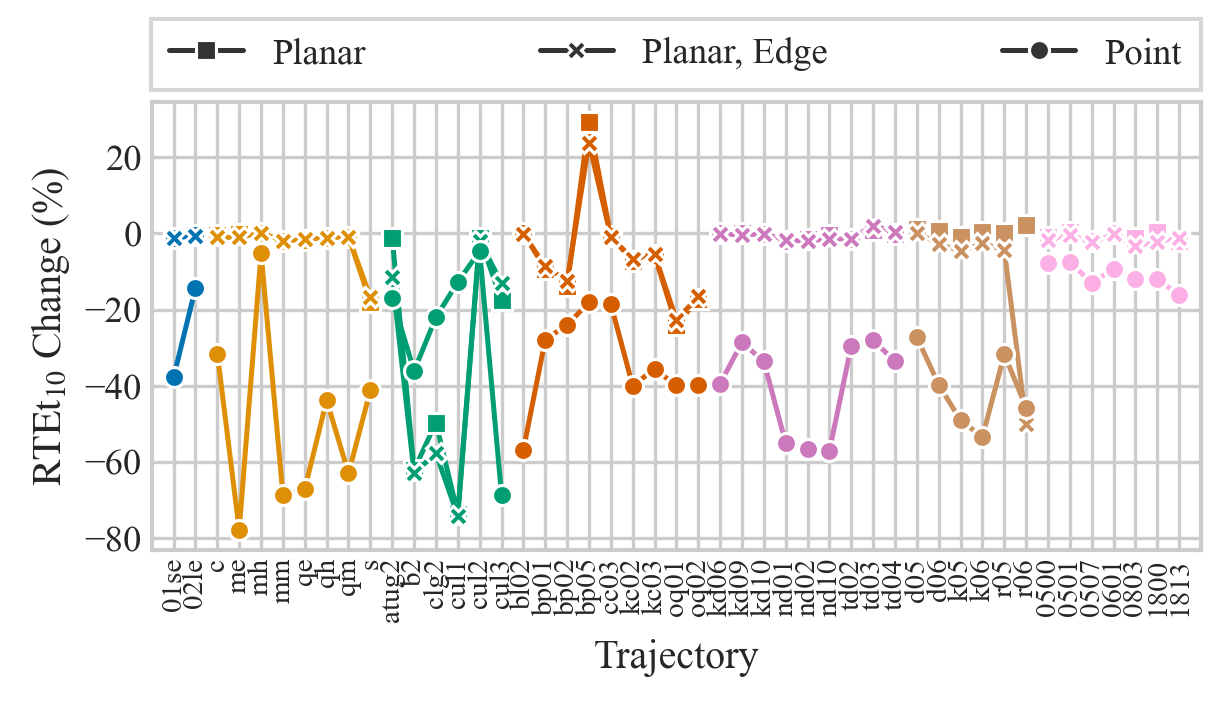
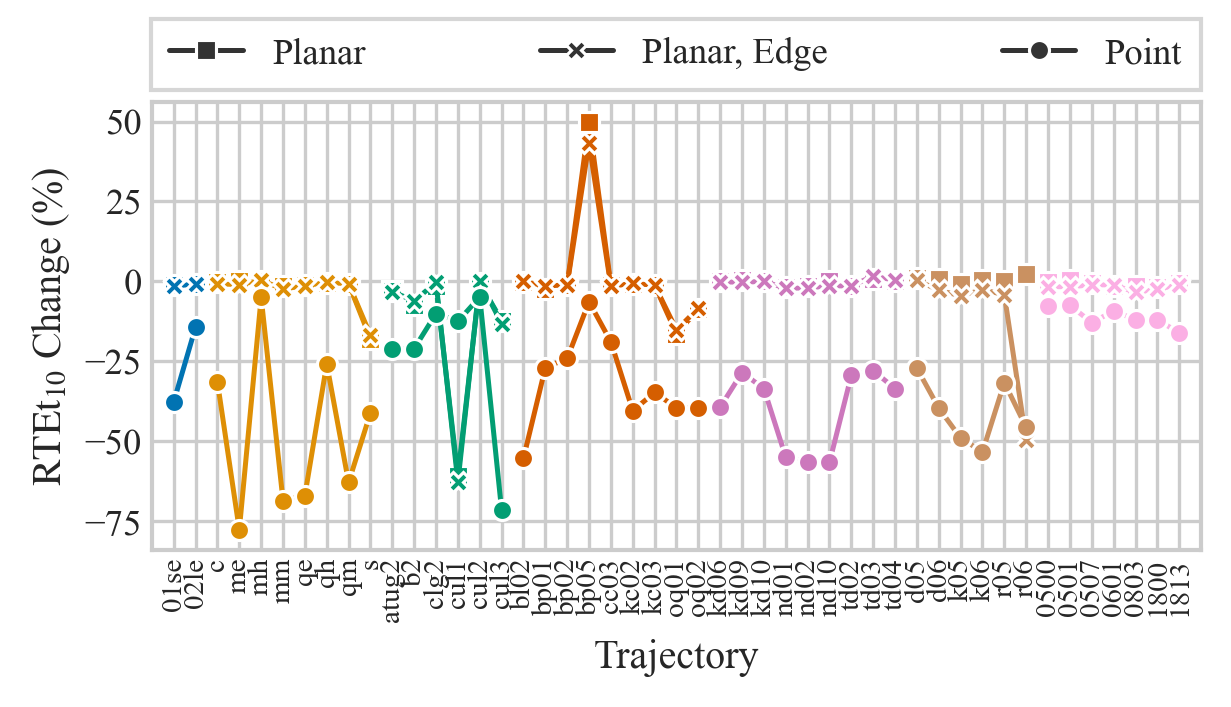
Run all experiments again with fixed planar features

diff --git a/src/run.py b/src/run.py
@@ -172,13 +172,23 @@ def run(
         curr_feat = loam.extractFeatures(pts, lp, fp)
         if not ep.planar:
             curr_feat.point_points = curr_feat.point_points + curr_feat.planar_points
+            curr_feat.point_scan_indices = (
+                curr_feat.point_scan_indices + curr_feat.planar_scan_indices
+            )
             curr_feat.planar_points = []
+            curr_feat.planar_scan_indices = []
         if not ep.edge:
             curr_feat.point_points = curr_feat.point_points + curr_feat.edge_points
+            curr_feat.point_scan_indices = (
+                curr_feat.point_scan_indices + curr_feat.edge_scan_indices
+            )
             curr_feat.edge_points = []
+            curr_feat.edge_scan_indices = []
         if not ep.point:
             curr_feat.point_points = []
+            curr_feat.point_scan_indices = []
 
+        # TODO: If I ever use these I need to fill out the scan indices as well
         if ep.point_all:
             before = fp.curvature_type
             fp.curvature_type = loam.Curvature.EIGEN
@@ -211,7 +221,9 @@ def run(
             step_pose = loam.registerFeatures(
                 curr_feat, prev_feat, init, params=rp, detail=detail
             )
+            # print(len(detail.iteration_info[-1].plane_associations))
             step_pose = convert(step_pose)
+            # quit()
 
             # Also skipping iter_gt to not compound bad results if failed
             iter_gt = iter_gt * step_gt
@@ -316,24 +328,38 @@ def run_multithreaded(
 
 
 if __name__ == "__main__":
-    dataset = "botanic_garden/1005_00"
+    dataset = "multi_campus_2024/tuhh_day_04"
 
     eps = [
         params.ExperimentParams(
-            name="check_2.5",
+            name="testing",
             dataset=dataset,
-            init=params.Initialization.ConstantVelocity,
+            init=params.Initialization.GroundTruth,
             dewarp=params.Dewarp.Identity,
             features=[params.Feature.Planar],
-        )
+        ),
+        # params.ExperimentParams(
+        #     name="min_0.5_cv",
+        #     dataset=dataset,
+        #     init=params.Initialization.GroundTruth,
+        #     dewarp=params.Dewarp.ConstantVelocity,
+        #     features=[params.Feature.Planar, params.Feature.Edge],
+        # ),
+        # params.ExperimentParams(
+        #     name="min_0.5_imu",
+        #     dataset=dataset,
+        #     init=params.Initialization.GroundTruth,
+        #     dewarp=params.Dewarp.Imu,
+        #     features=[params.Feature.Planar, params.Feature.Edge],
+        # ),
     ]
 
-    directory = Path("results/25.02.24_botanic_garden_check")
-    length = 1000
+    directory = Path("results/25.02.25_multi_gt")
+    length = 3000
     multithreaded = False
 
     if multithreaded:
         run_multithreaded(eps, directory, length=length)
     else:
         for e in eps:
-            run(e, directory, visualize=True, length=length)
+            run(e, directory, visualize=False, length=length)

diff --git a/experiments/features.py b/experiments/features.py
@@ -6,32 +6,31 @@ import sys
 
 sys.path.append("src")
 from params import ExperimentParams, Feature, Initialization
-from wrappers import parser, plt_show, setup_plot, powerset
+from wrappers import parser, plt_show, setup_plot
 from run import run_multithreaded
 from stats import compute_cache_stats
 from env import ALL_TRAJ, COL_WIDTH, LEN, RESULTS_DIR
 
 # dir = RESULTS_DIR / "25.02.17_features"
 # dir = RESULTS_DIR / "25.02.19_features"
-dir = RESULTS_DIR / "25.02.20_features_pointall_fixed"
+dir = RESULTS_DIR / "25.02.25_features"
 
 
 def run(num_threads: int):
     # ------------------------- Everything to sweep over ------------------------- #
-    features = powerset([Feature.Planar, Feature.Edge, Feature.Point])
-    features = [list(f) for f in features]
     features = [
         # The main ones we'll use
-        # [Feature.Point],
-        # [Feature.Planar],
-        # [Feature.Planar, Feature.Edge],
+        [Feature.Planar],
+        [Feature.Planar, Feature.Edge],
+        [Feature.Point],
+        #
         # [Feature.Planar, Feature.Point],
         #
         # Try just for kicks
-        [Feature.PointAll],
+        # [Feature.PointAll],
         #
         # This is just for research purposes... I wonder how adding "bad" planar points actually impacts things
-        [Feature.PlanarAll],
+        # [Feature.PlanarAll],
         #
         # Probably not as important, don't think many people use these
         # [Feature.Planar, Feature.Point],
@@ -53,8 +52,6 @@ def run(num_threads: int):
             name=f"{'_'.join([str(f) for f in feats])}_{i}",
             dataset=d,
             features=feats,
-            use_plane_to_plane=False,
-            # curvature=Curvature.Eigen,
             init=i,
         )
         for (feats, i, d) in product(features, init, ALL_TRAJ)
@@ -254,5 +251,5 @@ if __name__ == "__main__":
     if args.action == "run":
         run(args.num_threads)
     elif args.action == "plot":
-        # plot_point_init(args.name, args.force)
+        plot_point_init(args.name, args.force)
         plot_feature_comp(args.name, args.force)

diff --git a/experiments/pseudo.py b/experiments/pseudo.py
@@ -12,7 +12,7 @@ from run import run_multithreaded
 from stats import compute_cache_stats
 from env import RESULTS_DIR, SUBSET_TRAJ, LEN, COL_WIDTH
 
-dir = RESULTS_DIR / "25.02.18_pseudo_plane"
+dir = RESULTS_DIR / "25.02.25_pseudo_plane"
 
 
 def run(num_threads: int):
@@ -26,6 +26,8 @@ def run(num_threads: int):
 
     epsilon = np.linspace(0.0, 1.0, 11)
 
+    datasets = [d for d in SUBSET_TRAJ if ("new" in d or "oxford" in d or "multi" in d)]
+
     # ------------------------- Computer product of options ------------------------- #
     experiments = [
         ExperimentParams(
@@ -35,7 +37,7 @@ def run(num_threads: int):
             pseudo_planar_epsilon=float(val),
             init=i,
         )
-        for i, val, d in product(init, epsilon, SUBSET_TRAJ)
+        for i, val, d in product(init, epsilon, datasets)
     ]
 
     run_multithreaded(experiments, dir, num_threads=num_threads, length=LEN)

diff --git a/experiments/curvature.py b/experiments/curvature.py
@@ -1,12 +1,11 @@
 from itertools import product
-from pathlib import Path
 import seaborn as sns
 import matplotlib.pyplot as plt
 import polars as pl
 import sys
 
 sys.path.append("src")
-from env import ALL_TRAJ, LEN, COL_WIDTH
+from env import ALL_TRAJ, LEN, COL_WIDTH, RESULTS_DIR
 from params import Curvature, ExperimentParams, Feature, Initialization
 from wrappers import parser, plt_show, setup_plot
 from run import run_multithreaded
@@ -20,7 +19,7 @@ Changelog
 
 """
 
-dir = Path("results/25.02.20_curvature_7.0")
+dir = RESULTS_DIR / "25.02.25_curvature_new_nn"
 
 
 def run(num_threads: int):

diff --git a/src/wrappers.py b/src/wrappers.py
@@ -158,9 +158,7 @@ class ImuPoseLoader:
         self.seq = dataset.seq
 
         filename = (
-            INC_DATA_DIR
-            / "imu_integration_backup"
-            / f"{dataset.name()}_{dataset.seq}.pkl"
+            INC_DATA_DIR / "imu_integration" / f"{dataset.name()}_{dataset.seq}.pkl"
         )
         self.imu_T_lidar = dataset.imu_T_lidar()
 

diff --git a/experiments/plane_plane.py b/experiments/plane_plane.py
@@ -12,7 +12,7 @@ from stats import compute_cache_stats
 from env import ALL_TRAJ, LEN, RESULTS_DIR, COL_WIDTH
 
 # ------------------------- Everything to sweep over ------------------------- #
-dir = RESULTS_DIR / "25.02.21_plane_plane"
+dir = RESULTS_DIR / "25.02.24_plane_plane_test_removal"
 
 
 def run(num_threads: int):

diff --git a/experiments/window.py b/experiments/window.py
@@ -14,8 +14,7 @@ from wrappers import plt_show, parser, setup_plot
 from dataclasses import asdict
 from env import COL_WIDTH, LEN, RESULTS_DIR, SUBSET_TRAJ
 
-# weird date, but this is the right one
-dir = RESULTS_DIR / "25.02.21_window"
+dir = RESULTS_DIR / "25.02.25_window_final"
 
 
 def run(num_threads: int):

diff --git a/experiments/init.py b/experiments/init.py
@@ -10,7 +10,7 @@ from stats import compute_cache_stats
 from run_init import run_multithreaded
 from wrappers import plt_show, parser, setup_plot
 
-dir = RESULTS_DIR / "25.02.24_init_all"
+dir = RESULTS_DIR / "25.02.25_init"
 
 
 def run(num_threads: int):

diff --git a/experiments/dewarp.py b/experiments/dewarp.py
@@ -12,7 +12,7 @@ from stats import compute_cache_stats
 from env import ALL_TRAJ, LEN, RESULTS_DIR, COL_WIDTH
 
 
-dir = RESULTS_DIR / "25.02.18_dewarp_with_edges"
+dir = RESULTS_DIR / "25.02.25_dewarp"
 
 
 def run(num_threads: int):
